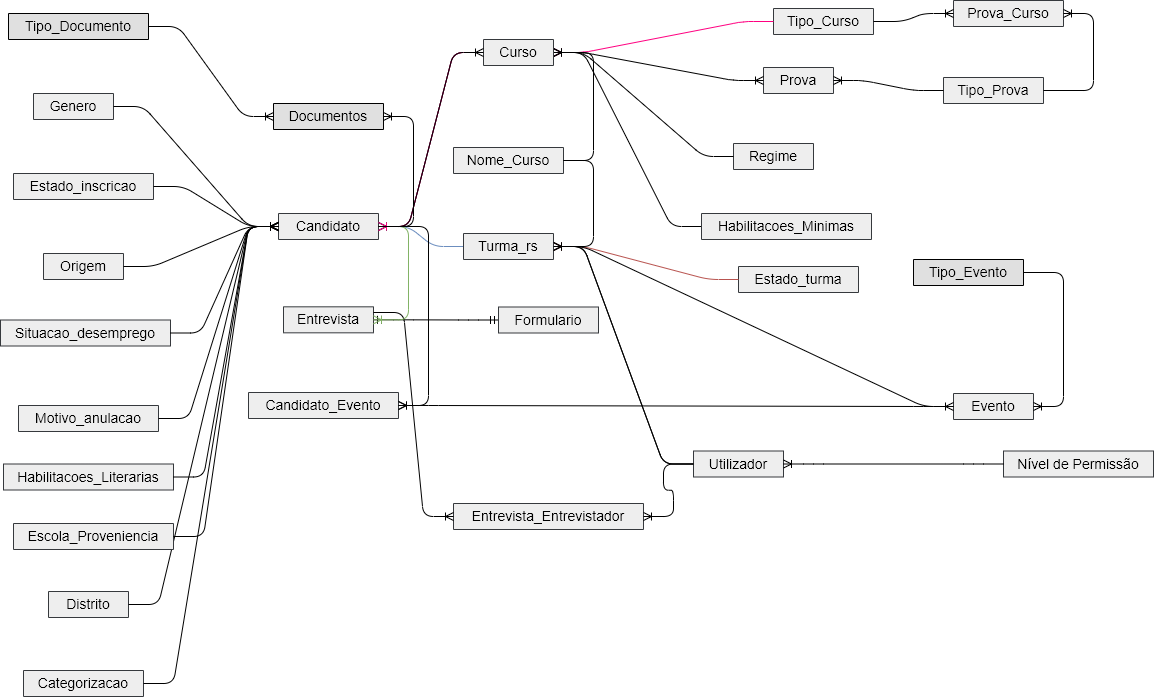
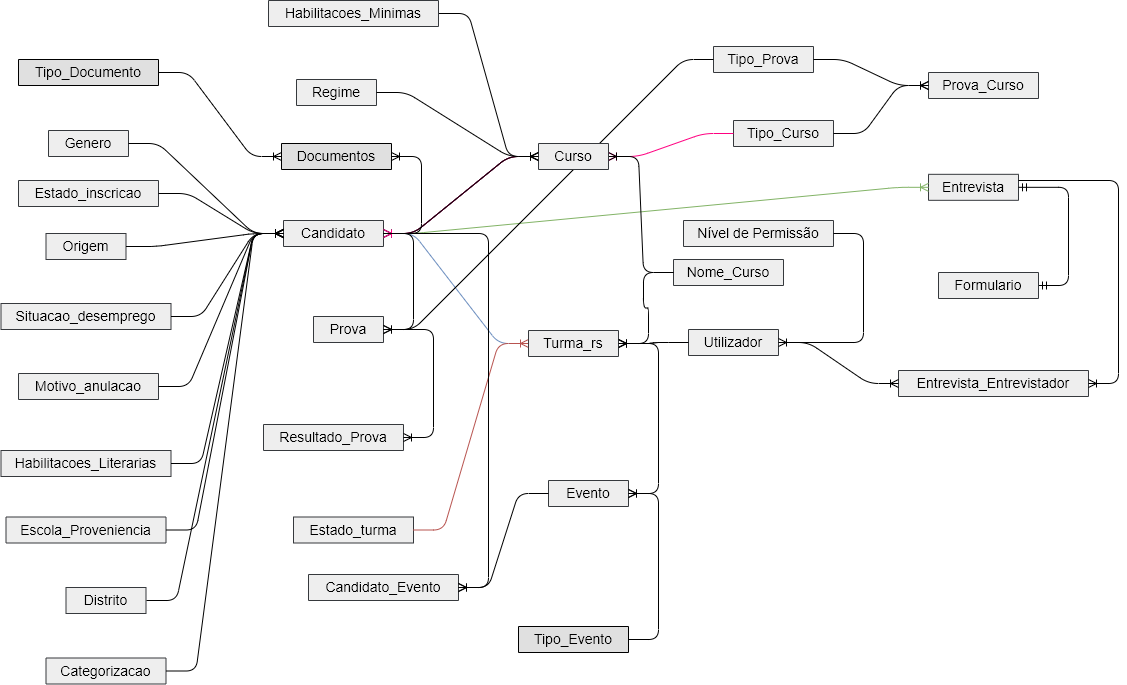
novas tabelas

diff --git a/projeto/resources/views/users/create.blade.php b/projeto/resources/views/users/create.blade.php
@@ -3,7 +3,7 @@
 
 <div class="content">
   <div class="container-fluid">
-        <form action="/courses" method="POST">            
+        <form action="/users" method="POST">            
             @csrf
             <div class="row">
                 
@@ -11,84 +11,67 @@
                     <div class="accordion" id="users">
                         <div class="card">
                             <div class="card-header card-header-info" data-toggle="collapse" data-target="#usersCreate" aria-expanded="true" aria-controls="usersCreate">
-                                <h4 class="card-title">Criar Nova Turma</h4>
+                                <h4 class="card-title">Criar Novo Utilizador</h4>
                             </div>
 
-                            <br/>
+                            
                             <div class="card-body">
                 
-                                <div class="row justify-content-md-center">                
-                                    <div class="col-md-10">
-
-                                        <div >
-                                            <label class="border-top-0 border-left-0 border-right-0" name="name">Nome do Curso</label>
-                                            <select name="course_name_id" class="custom-select input-border-width">
-                                                    @if (count($courseNames) > 0 )
-                                                        <option>-- selecione aqui o nome do Curso --</option>                                                        
-                                                        @foreach($courseNames as $courseName)
-                                                            <option value="{{ $courseName->id }}">
-                                                                {{ $courseName->name }}
-                                                            </option>
-                                                        @endforeach
-                                                    @else
-                                                        <option>
-                                                            --Não existem cursos na plataforma--
-                                                        </option>
-                                                    @endif
-                                            </select>                                            
-                                        </div>
-
-                                        <div >
-                                            <label class="border-top-0 border-left-0 border-right-0" name="name">Tipo do Curso</label>
-                                            <select name="course_type_id" class="custom-select input-border-width">
-                                                    @if (count($users) > 0 )
-                                                        <option>-- selecione aqui a Assistente de Formação --</option>                                                        
-                                                        @foreach($users as $user)
-                                                            <option value="{{ $user->id }}">
-                                                                {{ $user->name }}
-                                                            </option>
-                                                        @endforeach
-                                                    @else
-                                                        <option>
-                                                            --Não existem assistentes de formação--
-                                                        </option>
-                                                    @endif                                               
-                                            </select>                                            
-                                        </div>
-
-                                        <div >
-                                            <label class="border-top-0 border-left-0 border-right-0" name="name">Regime do Curso</label>
-                                            <select name="regime_id" class="custom-select input-border-width">
-                                                    @if (count($classStates) > 0 )
-                                                        <option>-- selecione aqui a estado da turma--</option>
-                                                        @foreach($classStates as $classState)
-                                                            <option  value="{{ $classState->id }}">
-                                                                {{ $classState->name }}         
-                                                            </option>                                                       
-                                                        @endforeach
-                                                        </option>
-                                                    @else
-                                                        <option>
-                                                            --Não existem estados de turma na plataforma--
-                                                        </option>
-                                                    @endif                                               
-                                            </select>                                            
-                                        </div>
-
+                                <div class="row justify-content-md-center">     
+                                    <div class="col-md-5">
+                                        <br/>
+                                        <label>Nome do Utilizador</label>
+                                        <input class="form-control border-top-0 border-left-0 border-right-0" name="name" type="text">
                                     </div>
-                                    <div class="col-md-2">
-                                        <label>Data de Início
-                                        </label>
-                                        <input type="date" class="form-control border-top-0 border-left-0 border-right-0" name="birthdate" format="dd/MM/yyyy">
+
+                                    <div class="col-md-4">
+                                        <br/>
+                                        <label>Email</label>
+                                        <input class="form-control border-top-0 border-left-0 border-right-0" name="email" type="email">
+                                    </div>
+                                </div>
+
+                                <div class="row justify-content-md-center">                
+                                  
+                                    <div class="col-md-3">
+                                        <br/>
+                                        <label>Password</label>
+                                        <input class="form-control border-top-0 border-left-0 border-right-0" name="password" type="password">
+                                    </div>
+
+                                    <div class="col-md-3">
+                                        <br/>
+                                        <label>Repita a Password</label>
+                                        <input type="password" class="form-control border-top-0 border-left-0 border-right-0" name="password">
+                                    </div>
+
+
+                                    <div class="col-md-3">
+                                        <br/>
+                                        <label class="border-top-0 border-left-0 border-right-0" name="name">Nome do Curso</label>
+                                        <select name="permission_level_id" class="custom-select input-border-width">
+                                                @if (count($permissionLevels) > 0 )
+                                                    <option>-- selecione aqui o nível de acesso--</option>                                                        
+                                                    @foreach($permissionLevels as $permissionLevel)
+                                                        <option value="{{ $permissionLevel->id }}">
+                                                            {{ $permissionLevel->name }}
+                                                        </option>
+                                                    @endforeach
+                                                @else
+                                                    <option>
+                                                        --Não existem níveis de acesso registados na plataforma--
+                                                    </option>
+                                                @endif
+                                        </select>                                            
                                     </div>
                                 </div>
 
                                 <div class="row justify-content-end">
                                     <div class="col-md-1">
-                                        <button type="submit" class="btn btn-primary">Criar</button>
-                                        
+                                        <button type="submit" class="btn btn-primary">Criar</button>                                        
                                     </div>
                                 </div>
+
                             </div>           
                         </div>
                     </div>

diff --git a/projeto/resources/views/courses/create.blade.php b/projeto/resources/views/courses/create.blade.php
@@ -40,7 +40,7 @@
 
                                         <div >
                                             <label class="border-top-0 border-left-0 border-right-0" name="name">Tipo do Curso</label>
-                                            <select name="course_name_id" class="custom-select input-border-width">
+                                            <select name="course_type_id" class="custom-select input-border-width">
                                                 @if (count($courseTypes) > 0 )
                                                     <option>-- selecione aqui o tipo do Curso --</option>                                                        
                                                     @foreach($courseTypes as $courseType)
@@ -62,7 +62,7 @@
                                         <div class="col-md-5">
                                             <div >
                                                 <label class="border-top-0 border-left-0 border-right-0" name="name">Regime do Curso</label>
-                                                <select name="course_name_id" class="custom-select input-border-width">
+                                                <select name="regime_id" class="custom-select input-border-width">
                                                         @if (count($regimes) > 0 )
                                                             <option>-- selecione aqui o regime do Curso --</option>                                                        
                                                             @foreach($regimes as $regime)
@@ -82,9 +82,9 @@
                                             <div >
                                                 <label class="border-top-0 border-left-0 border-right-0" name="name">Habilitações Literárias Mínimas para o Curso</label>
 
-                                                <select name="course_name_id" class="custom-select input-border-width">
+                                                <select name="minimum_qualification_id" class="custom-select input-border-width">
                                                         @if (count($minimumQualifications) > 0 )
-                                                            <option>-- selecione aqui o nome do Curso --</option>                                                        
+                                                            <option>-- selecione aqui as Habilitações Literárias mínimas para o Curso --</option>                                                        
                                                             @foreach($minimumQualifications as $minimumQualifications)
                                                                 <option value="{{ $minimumQualifications->id }}">
                                                                     {{ $minimumQualifications->name }}

diff --git a/projeto/resources/views/users/index.blade.php b/projeto/resources/views/users/index.blade.php
@@ -51,16 +51,16 @@
                                                 </td>
 
                                                 <td>
-                                                    {{ $user->permissionLevel->name }}
+                                                    {{ $user->permissionLevel['name'] }}
                                                 </td>
                                                 <td class="d-flex">
-                                                    <button type="button" rel="tooltip" title="Edit Task" class="btn btn-info btn-link btn-sm">
+                                                    <button type="button" rel="tooltip" title="Editar" class="btn btn-info btn-link btn-sm">
                                                         <i class="material-icons">edit</i>
                                                     </button>
                                                     <form action="/users/{{ $user->id }}" method="post">
                                                         @csrf
                                                         @method('delete')
-                                                        <button type="submit" rel="tooltip" title="Remove" class="btn btn-info btn-link btn-sm" value="DELETE">
+                                                        <button type="submit" rel="tooltip" title="Remover" class="btn btn-info btn-link btn-sm" value="DELETE">
                                                             <i class="material-icons">close</i>
                                                         </button>
                                                     </form>

diff --git a/projeto/app/Http/Controllers/ResultController.php b/projeto/app/Http/Controllers/ResultController.php
@@ -1,0 +1,85 @@
+<?php
+
+namespace App\Http\Controllers;
+
+use App\r;
+use Illuminate\Http\Request;
+
+class ResultController extends Controller
+{
+    /**
+     * Display a listing of the resource.
+     *
+     * @return \Illuminate\Http\Response
+     */
+    public function index()
+    {
+        //
+    }
+
+    /**
+     * Show the form for creating a new resource.
+     *
+     * @return \Illuminate\Http\Response
+     */
+    public function create()
+    {
+        //
+    }
+
+    /**
+     * Store a newly created resource in storage.
+     *
+     * @param  \Illuminate\Http\Request  $request
+     * @return \Illuminate\Http\Response
+     */
+    public function store(Request $request)
+    {
+        //
+    }
+
+    /**
+     * Display the specified resource.
+     *
+     * @param  \App\r  $r
+     * @return \Illuminate\Http\Response
+     */
+    public function show(r $r)
+    {
+        //
+    }
+
+    /**
+     * Show the form for editing the specified resource.
+     *
+     * @param  \App\r  $r
+     * @return \Illuminate\Http\Response
+     */
+    public function edit(r $r)
+    {
+        //
+    }
+
+    /**
+     * Update the specified resource in storage.
+     *
+     * @param  \Illuminate\Http\Request  $request
+     * @param  \App\r  $r
+     * @return \Illuminate\Http\Response
+     */
+    public function update(Request $request, r $r)
+    {
+        //
+    }
+
+    /**
+     * Remove the specified resource from storage.
+     *
+     * @param  \App\r  $r
+     * @return \Illuminate\Http\Response
+     */
+    public function destroy(r $r)
+    {
+        //
+    }
+}

diff --git a/projeto/database/migrations/2019_11_20_183114_create_test_results_table.php b/projeto/database/migrations/2019_11_20_183114_create_test_results_table.php
@@ -4,7 +4,7 @@ use Illuminate\Support\Facades\Schema;
 use Illuminate\Database\Schema\Blueprint;
 use Illuminate\Database\Migrations\Migration;
 
-class CreateInterviewsTable extends Migration
+class CreateTestResultsTable extends Migration
 {
     /**
      * Run the migrations.
@@ -13,12 +13,12 @@ class CreateInterviewsTable extends Migration
      */
     public function up()
     {
-        Schema::create('interviews', function (Blueprint $table) {
+        Schema::create('test_results', function (Blueprint $table) {
             $table->bigIncrements('id');
-            $table->bigInteger('applicant_id')->unsigned();
-            $table->foreign('applicant_id')->references('id')->on('applicants')->onDelete('cascade')->onUpdate('cascade');
-            $table->string('result');
-            $table->string('date');            
+            $table->string('name');
+            $table->integer('value');
+            $table->bigInteger('test_id')->nullable()->unsigned();
+            $table->foreign('test_id')->references('id')->on('tests');
             $table->timestamps();
         });
     }
@@ -30,6 +30,6 @@ class CreateInterviewsTable extends Migration
      */
     public function down()
     {
-        Schema::dropIfExists('interviews');
+        Schema::dropIfExists('test_results');
     }
 }

diff --git a/projeto/database/migrations/2019_09_25_202538_create_tests_table.php b/projeto/database/migrations/2019_09_25_202538_create_tests_table.php
@@ -16,11 +16,11 @@ class CreateTestsTable extends Migration
         Schema::create('tests', function (Blueprint $table) {
             $table->bigIncrements('id');
             $table->string('date');
-            $table->bigInteger('test_tyoe:id')->unsigned()->nullable();
-            $table->foreign('test_tyoe:id')->references('id')->on('test_types')->onDelete('cascade')->onUpdate('cascade');
+            $table->bigInteger('test_type_id')->unsigned()->nullable();
+            $table->foreign('test_type_id')->references('id')->on('test_types')->onDelete('cascade')->onUpdate('cascade');
+            $table->boolean('atendance')->default(0);
             $table->bigInteger('applicant_id')->unsigned()->nullable();
             $table->foreign('applicant_id')->references('id')->on('applicants')->onDelete('cascade')->onUpdate('cascade');            
-            $table->string('result');
             $table->timestamps();
         });
     }

diff --git a/projeto/database/migrations/2019_09_24_202523_create_rs_classes_table.php b/projeto/database/migrations/2019_09_24_202523_create_rs_classes_table.php
@@ -21,7 +21,7 @@ class CreateRsClassesTable extends Migration
             $table->date('startDate')->nullable();                       
             $table->bigInteger('user_id')->unsigned()->nullable(); //fazer where para atribuir id de assistente de formação
             $table->foreign('user_id')->references('id')->on('users')->onDelete('cascade')->onUpdate('cascade');
-            $table->bigInteger('class_state_id')->unsigned()->default();
+            $table->bigInteger('class_state_id')->unsigned()->default(1);
             $table->foreign('class_state_id')->references('id')->on('class_states')->onDelete('cascade')->onUpdate('cascade');           
             $table->bigInteger('course_name_id')->unsigned()->nullable();
             $table->foreign('course_name_id')->references('id')->on('course_names');

diff --git a/projeto/app/PermissionLevel.php b/projeto/app/PermissionLevel.php
@@ -7,7 +7,7 @@ use Illuminate\Database\Eloquent\Model;
 class PermissionLevel extends Model
 {
     
-    public function user() {
+    public function users() {
         return $this->belongsTo('\App\User');
     }
 }
